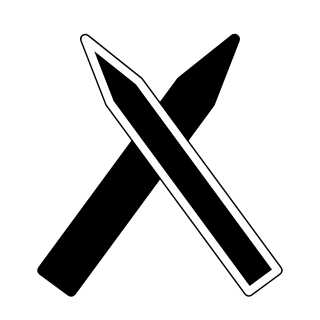
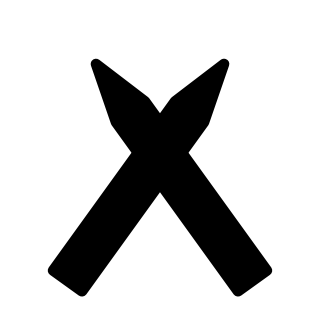
Abatis art at the pawn's height, no white edge (Mac); round 26 options: Grunt as a shield or helm that breaks (G1-G6 with G<n>W broken), Vassal as an elegant object (V1-V6)

Changed region(s): [[0.0938, 0.0938, 0.875, 0.9375]]

diff --git a/art/source/piece_options/round26/make_round26.py b/art/source/piece_options/round26/make_round26.py
@@ -1,0 +1,141 @@
+"""Round 26 art options (Mac, 25 Oct 2026): the Grunt and the Vassal needn't
+look like pawns. Grunt = something with a defence that visibly breaks (each
+option G<n> comes with its broken look G<n>W, shown once the shield breaks).
+Vassal = something vaguely elegant. Also A1: the final Abatis shortened to the
+pawn's height, without the white edge on the black piece. Both colours. Run
+from this folder:  python make_round26.py  then tools/render_options.gd.
+
+Parts: ("shape", d) filled outlined shape; ("mirror", d) that shape and its
+left-right mirror; ("line", d, w) a detail line (black on white, white on
+black); ("edge", d, w) a line only on the black piece; ("cut", d) an opening
+(white shape on the white piece, white outline on the black one).
+"""
+import math
+
+HEAD = '<svg xmlns="http://www.w3.org/2000/svg" width="45" height="45" viewBox="0 0 45 45">'
+
+
+def render(parts, team):
+    black = team == "black"
+    fill = "#000" if black else "#fff"
+    body = ['<g stroke="#000" stroke-width="1.5" stroke-linecap="round" stroke-linejoin="round" fill="%s">' % fill]
+    for part in parts:
+        kind, d = part[0], part[1]
+        w = part[2] if len(part) > 2 else 1.5
+        if kind == "shape":
+            body.append('<path d="%s"/>' % d)
+        elif kind == "mirror":
+            body.append('<path d="%s"/>' % d)
+            body.append('<g transform="translate(45,0) scale(-1,1)"><path d="%s"/></g>' % d)
+        elif kind == "line":
+            body.append('<path d="%s" fill="none" stroke="%s" stroke-width="%s"/>' % (d, "#fff" if black else "#000", w))
+        elif kind == "edge":
+            if black:
+                body.append('<path d="%s" fill="none" stroke="#fff" stroke-width="%s"/>' % (d, w))
+        elif kind == "cut":
+            if black:
+                body.append('<path d="%s" fill="none" stroke="#fff" stroke-width="1.2"/>' % d)
+            else:
+                body.append('<path d="%s"/>' % d)
+    body.append("</g>")
+    return HEAD + "".join(body) + "</svg>\n"
+
+
+def stake(x0, y0, x1, y1, w, sharp=0.22):
+    dx, dy = x1 - x0, y1 - y0
+    length = math.hypot(dx, dy)
+    ux, uy = dx / length, dy / length
+    px, py = -uy, ux
+    sx, sy = x0 + dx * (1 - sharp), y0 + dy * (1 - sharp)
+    pts = [(x0 + px * w / 2, y0 + py * w / 2), (sx + px * w / 2, sy + py * w / 2), (x1, y1),
+           (sx - px * w / 2, sy - py * w / 2), (x0 - px * w / 2, y0 - py * w / 2)]
+    return "M %s Z" % " L ".join("%.2f,%.2f" % p for p in pts)
+
+
+OPTIONS = {}
+
+# --- Abatis, final shape at the pawn's height (top y 9), no white edge. --------------
+OPTIONS["A1_abatis_final"] = [("shape", stake(9.5, 39.5, 31.5, 9, 5)), ("shape", stake(35.5, 39.5, 13.5, 9, 5))]
+
+# --- Grunt: a defence that breaks. ----------------------------------------------------
+FOOT = ("shape", "M 15,39.5 C 15,36.4 18,34.8 22.5,34.8 C 27,34.8 30,36.4 30,39.5 Z")
+# G1: a kite shield standing on a small foot; broken: a crack down it.
+KITE = "M 22.5,5 C 29,5 33,8 33,13 C 33,22 28,30 22.5,36.5 C 17,30 12,22 12,13 C 12,8 16,5 22.5,5 Z"
+OPTIONS["G1_kite_shield"] = [FOOT, ("shape", KITE), ("line", "M 22.5,8.5 L 22.5,32", 1.6)]
+OPTIONS["G1W_kite_cracked"] = [FOOT, ("shape", KITE), ("line", "M 19.5,7 L 24,14 L 20,20 L 25,27 L 22,32", 1.7),
+    ("line", "M 24,14 L 28,12 M 20,20 L 16.5,22.5", 1.2)]
+# G2: a round shield with a boss and rim; broken: cracked across.
+ROUND = "M 22.5,5 A 13,13 0 1 0 22.5,31 A 13,13 0 1 0 22.5,5 Z"
+OPTIONS["G2_round_shield"] = [FOOT, ("shape", ROUND), ("line", "M 22.5,8 A 10,10 0 1 0 22.5,28 A 10,10 0 1 0 22.5,8 Z", 1.2),
+    ("shape", "M 22.5,14 A 4,4 0 1 0 22.5,22 A 4,4 0 1 0 22.5,14 Z"), ("edge", "M 22.5,14 A 4,4 0 1 0 22.5,22 A 4,4 0 1 0 22.5,14 Z", 1.1)]
+OPTIONS["G2W_round_cracked"] = [FOOT, ("shape", ROUND), ("shape", "M 22.5,14 A 4,4 0 1 0 22.5,22 A 4,4 0 1 0 22.5,14 Z"),
+    ("edge", "M 22.5,14 A 4,4 0 1 0 22.5,22 A 4,4 0 1 0 22.5,14 Z", 1.1),
+    ("line", "M 12,12 L 18,16 L 16,21 M 33,26 L 27.5,21.5 L 29,16.5 L 33.5,14", 1.7)]
+# G3: a great helm on a stand; broken: dented and cracked.
+HELM = "M 13,26 L 13,9.5 C 13,4 32,4 32,9.5 L 32,26 Z"
+STAND = ("shape", "M 15,39.5 C 15,33 17,29.5 19,26 L 26,26 C 28,29.5 30,33 30,39.5 Z")
+OPTIONS["G3_great_helm"] = [STAND, ("shape", HELM), ("line", "M 15.5,14 L 29.5,14", 2), ("line", "M 22.5,16.5 L 22.5,26", 1.5),
+    ("line", "M 17,20 L 17,21.5 M 20,20 L 20,21.5 M 25,20 L 25,21.5 M 28,20 L 28,21.5", 1.2), ("edge", "M 13,26 L 32,26", 1.2)]
+OPTIONS["G3W_helm_cracked"] = [STAND, ("shape", "M 13,26 L 13,9.5 C 13,6 18,4.5 21,5.5 L 24,10 L 26.5,5 C 30,5.5 32,7 32,9.5 L 32,26 Z"),
+    ("line", "M 15.5,14 L 29.5,14", 2), ("line", "M 22.5,16.5 L 22.5,26", 1.5), ("line", "M 24,10 L 22,18 L 25.5,24", 1.6), ("edge", "M 13,26 L 32,26", 1.2)]
+# G4: a heater shield with a chevron; broken: the top corner gone and a crack.
+HEATER = "M 11,7 L 34,7 L 34,18 C 34,27 29,33 22.5,37 C 16,33 11,27 11,18 Z"
+OPTIONS["G4_heater_shield"] = [FOOT, ("shape", HEATER), ("line", "M 14,21 L 22.5,13 L 31,21", 2.2)]
+OPTIONS["G4W_heater_broken"] = [FOOT, ("shape", "M 11,7 L 26,7 L 28,11.5 L 31.5,9 L 34,12 L 34,18 C 34,27 29,33 22.5,37 C 16,33 11,27 11,18 Z"),
+    ("line", "M 14,21 L 22.5,13 L 31,21", 2.2), ("line", "M 28,11.5 L 25,19 L 27.5,25 L 24,31", 1.7)]
+# G5: a pavise (tall shield with a ridge); broken: split top, a chunk out of the side.
+OPTIONS["G5_pavise"] = [FOOT, ("shape", "M 12.5,6 L 32.5,6 L 32.5,34 C 32.5,36.5 12.5,36.5 12.5,34 Z"),
+    ("shape", "M 20,6 L 25,6 L 25,34.5 L 20,34.5 Z"), ("edge", "M 20,6 L 20,34.5 M 25,6 L 25,34.5", 1.1)]
+OPTIONS["G5W_pavise_broken"] = [FOOT, ("shape", "M 12.5,6 L 20,6 L 22.5,11 L 25,6 L 32.5,6 L 32.5,20 L 29.5,23 L 32.5,26 L 32.5,34 C 32.5,36.5 12.5,36.5 12.5,34 Z"),
+    ("line", "M 22.5,11 L 21,20 L 23.5,28 L 22,34", 1.7)]
+# G6: a spangenhelm (banded cone helm with cheek guards) on a stand; broken: a band torn, a crack.
+CONE = "M 13.5,23 C 13.5,11 18,5.5 22.5,4 C 27,5.5 31.5,11 31.5,23 Z"
+GUARD = "M 14,23 C 13.5,27 15,30 18.5,31 L 20,23 Z"
+OPTIONS["G6_banded_helm"] = [STAND, ("shape", CONE), ("mirror", GUARD), ("line", "M 22.5,4.5 L 22.5,23", 1.6),
+    ("line", "M 14.5,16 C 18,13 27,13 30.5,16", 1.6), ("edge", "M 13.5,23 L 31.5,23", 1.2)]
+OPTIONS["G6W_banded_cracked"] = [STAND, ("shape", "M 13.5,23 C 13.5,11 18,5.5 22.5,4 C 24,6 24,8 26,9 C 28.5,12 31.5,15 31.5,23 Z"),
+    ("mirror", GUARD), ("line", "M 22.5,4.5 L 22.5,23", 1.6), ("line", "M 14.5,16 C 18,13 24,13 26,14", 1.6),
+    ("line", "M 26,9 L 24.5,15 L 27.5,20", 1.7), ("edge", "M 13.5,23 L 31.5,23", 1.2)]
+
+# --- Vassal: vaguely elegant. -----------------------------------------------------------
+# V1: a fleur-de-lis.
+OPTIONS["V1_fleur_de_lis"] = [
+    ("shape", "M 22.5,4 C 26,9 26.5,16.5 22.5,22.5 C 18.5,16.5 19,9 22.5,4 Z"),
+    ("mirror", "M 21.5,21.5 C 15.5,21.5 10.5,17.5 9.5,12 C 12.5,14.5 17.5,15.5 21.5,19.5 Z"),
+    ("shape", "M 17,21.5 L 28,21.5 L 27.3,25.5 L 17.7,25.5 Z"),
+    ("shape", "M 22.5,25.5 C 24.8,29.5 24.8,34.5 22.5,38.5 C 20.2,34.5 20.2,29.5 22.5,25.5 Z"),
+    ("mirror", "M 20.8,25.5 C 15,27.5 11,32 11.5,38 C 14,34.5 17.5,31.5 21.2,28.5 Z")]
+# V2: a chalice.
+OPTIONS["V2_chalice"] = [("shape", "M 12,39.5 C 12,35.5 17,33.2 22.5,33.2 C 28,33.2 33,35.5 33,39.5 Z"),
+    ("shape", "M 21,22.5 L 24,22.5 L 24,33.2 L 21,33.2 Z"), ("edge", "M 21,33.2 L 24,33.2", 1.1),
+    ("shape", "M 13,7 L 32,7 C 32,16.5 28,22 22.5,23 C 17,22 13,16.5 13,7 Z"),
+    ("line", "M 15,12 C 18,14 27,14 30,12", 1.2), ("edge", "M 13,7 L 32,7", 1.2)]
+# V3: a plume (a single feather) on a small stand.
+OPTIONS["V3_plume"] = [("shape", "M 16,39.5 C 16,36.5 19,35 22.5,35 C 26,35 29,36.5 29,39.5 Z"),
+    ("shape", "M 19.5,35 C 14.5,25 15.5,11 24.5,3 C 31.5,11 30.5,25 25.5,35 Z"),
+    ("line", "M 22.5,34.5 C 21.5,24 22,13 24.5,4.5", 1.3),
+    ("line", "M 22,26 C 19,24 18,21 18,18 M 22,19 C 20,17 19.5,14.5 20,12 M 23,27 C 26,25 27.5,22 27.5,19 M 23.5,19 C 26,17 27,14 26.8,11", 1.1)]
+# V4: a scroll with a hanging seal.
+OPTIONS["V4_scroll_seal"] = [("shape", "M 13,11 L 32,11 L 32,30 L 13,30 Z"),
+    ("shape", "M 11.5,11 A 11,3 0 1 0 33.5,11 A 11,3 0 1 0 11.5,11 Z"),
+    ("shape", "M 11.5,30 A 11,3 0 1 0 33.5,30 A 11,3 0 1 0 11.5,30 Z"),
+    ("line", "M 17,16.5 L 28,16.5 M 17,20.5 L 28,20.5 M 17,24.5 L 25,24.5", 1.2),
+    ("line", "M 27.5,32.5 L 27.5,35", 1.3), ("shape", "M 27.5,34.5 A 3,3 0 1 0 27.5,40.5 A 3,3 0 1 0 27.5,34.5 Z"),
+    ("edge", "M 11.5,11 A 11,3 0 1 0 33.5,11 A 11,3 0 1 0 11.5,11 Z M 11.5,30 A 11,3 0 1 0 33.5,30 A 11,3 0 1 0 11.5,30 Z", 1.1)]
+# V5: a slender urn.
+OPTIONS["V5_urn"] = [("shape", "M 13.5,39.5 C 13.5,37.3 17.5,36 22.5,36 C 27.5,36 31.5,37.3 31.5,39.5 Z"),
+    ("shape", "M 18.5,5 L 26.5,5 L 25.5,9 C 30.5,12 31.5,20 28.5,30 C 27.5,33 26.5,35 26.5,36.5 L 18.5,36.5 C 18.5,35 17.5,33 16.5,30 C 13.5,20 14.5,12 19.5,9 Z"),
+    ("line", "M 16.5,12 C 12,12.5 11,18 14,21 M 28.5,12 C 33,12.5 34,18 31,21", 1.5),
+    ("line", "M 18.5,9 L 26.5,9", 1.2), ("edge", "M 18.5,5 L 26.5,5 M 18.5,36.5 L 26.5,36.5", 1.1)]
+# V6: a plumed cap on a stand.
+OPTIONS["V6_plumed_cap"] = [("shape", "M 14,39.5 C 14,33 17,29 19,28 L 26,28 C 28,29 31,33 31,39.5 Z"),
+    ("shape", "M 24,11.5 C 28,5.5 35,3.5 41.5,4.5 C 36.5,7 32.5,10.5 29.5,14 Z"),
+    ("line", "M 26.5,11.5 C 30,8 34,6 38.5,5.5", 1.1),
+    ("shape", "M 12,24.5 C 12,14.5 18,10.5 24,10.5 C 31,10.5 34,15.5 33,24.5 Z"),
+    ("shape", "M 10.5,24.5 L 34.5,24.5 L 34,28.5 L 11,28.5 Z"), ("edge", "M 10.5,24.5 L 34.5,24.5", 1.1)]
+
+for name, parts in OPTIONS.items():
+    for team in ("white", "black"):
+        with open("%s_%s.svg" % (team, name), "w", encoding="utf-8", newline="\n") as f:
+            f.write(render(parts, team))
+print("wrote %d options x 2 colours" % len(OPTIONS))

diff --git a/art/source/piece_options/make_final_abatis.py b/art/source/piece_options/make_final_abatis.py
@@ -1,7 +1,9 @@
 """The Abatis's final art (Mac picked round 24's "cross in the middle", 25 Oct
-2026): two sharpened stakes crossing in the middle, single colour like the
-Pawn. Writes art/source/pieces/white_abatis.svg and black_abatis.svg; render
-them with tools/render_piece_svg.gd. Run from this folder:
+2026, then: pawn height, no white edge on the black piece): two sharpened
+stakes crossing in the middle, single colour like the Pawn, the tips at the
+pawn's head height (y 9). Writes art/source/pieces/white_abatis.svg and
+black_abatis.svg; render them with tools/render_piece_svg.gd. Run from this
+folder:
     python make_final_abatis.py
 """
 import math
@@ -22,20 +24,14 @@ def stake(x0, y0, x1, y1, w, sharp=0.22):
     return "M %s Z" % " L ".join("%.2f,%.2f" % p for p in pts)
 
 
-BACK = stake(8, 39.5, 33, 5.5, 5)
-FRONT = stake(37, 39.5, 12, 5.5, 5)
+BACK = stake(9.5, 39.5, 31.5, 9, 5)
+FRONT = stake(35.5, 39.5, 13.5, 9, 5)
 
 
 def svg(team):
-    black = team == "black"
-    fill = "#000" if black else "#fff"
-    parts = ['<g stroke="#000" stroke-width="1.5" stroke-linecap="round" stroke-linejoin="round" fill="%s">' % fill,
-             '<path d="%s"/>' % BACK, '<path d="%s"/>' % FRONT]
-    if black:
-        # The front stake's outline in white, so the crossing shows on the black piece.
-        parts.append('<path d="%s" fill="none" stroke="#fff" stroke-width="1.1"/>' % FRONT)
-    parts.append("</g>")
-    return HEAD + "".join(parts) + "</svg>\n"
+    fill = "#000" if team == "black" else "#fff"
+    return (HEAD + '<g stroke="#000" stroke-width="1.5" stroke-linecap="round" stroke-linejoin="round" fill="%s">' % fill
+            + '<path d="%s"/><path d="%s"/></g></svg>\n' % (BACK, FRONT))
 
 
 here = os.path.dirname(os.path.abspath(__file__))
